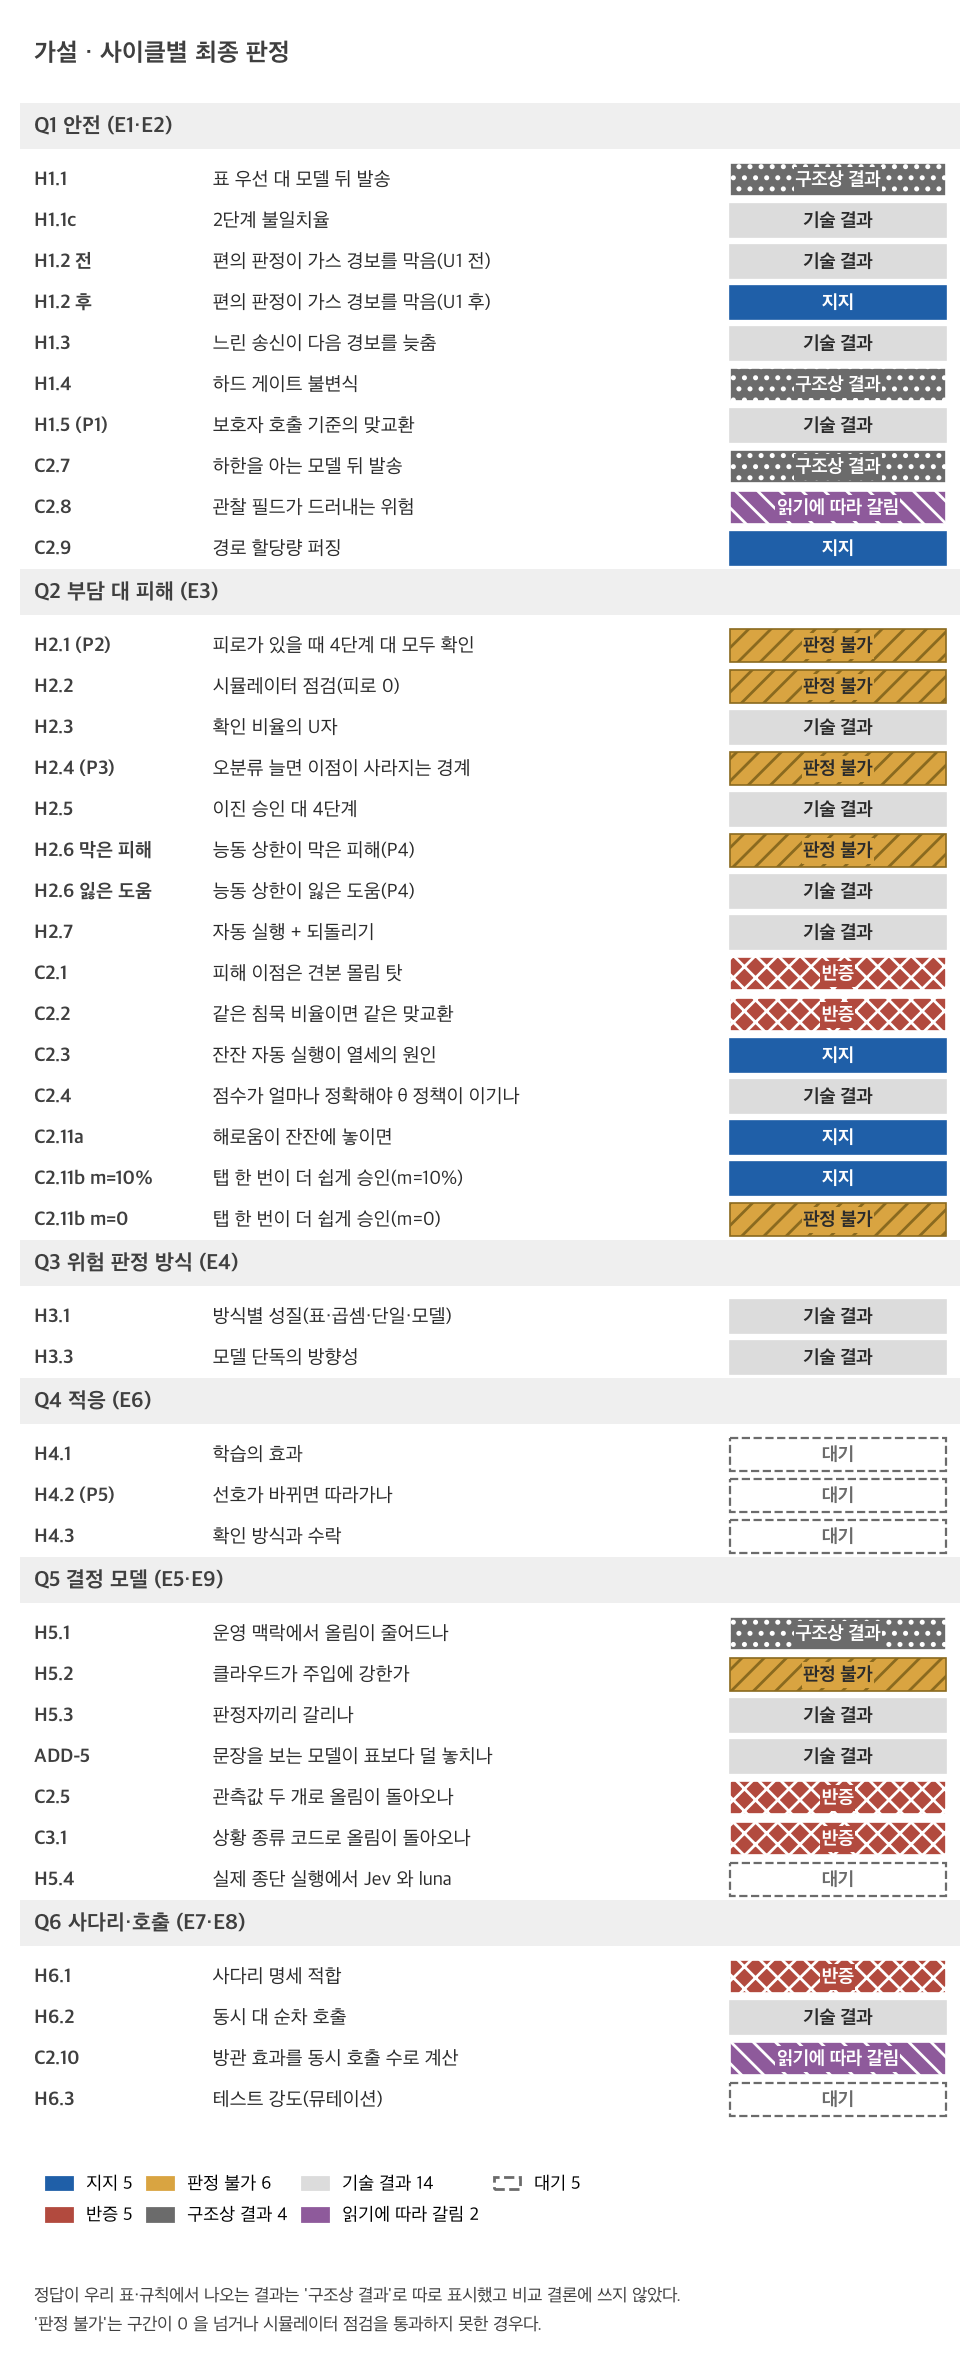
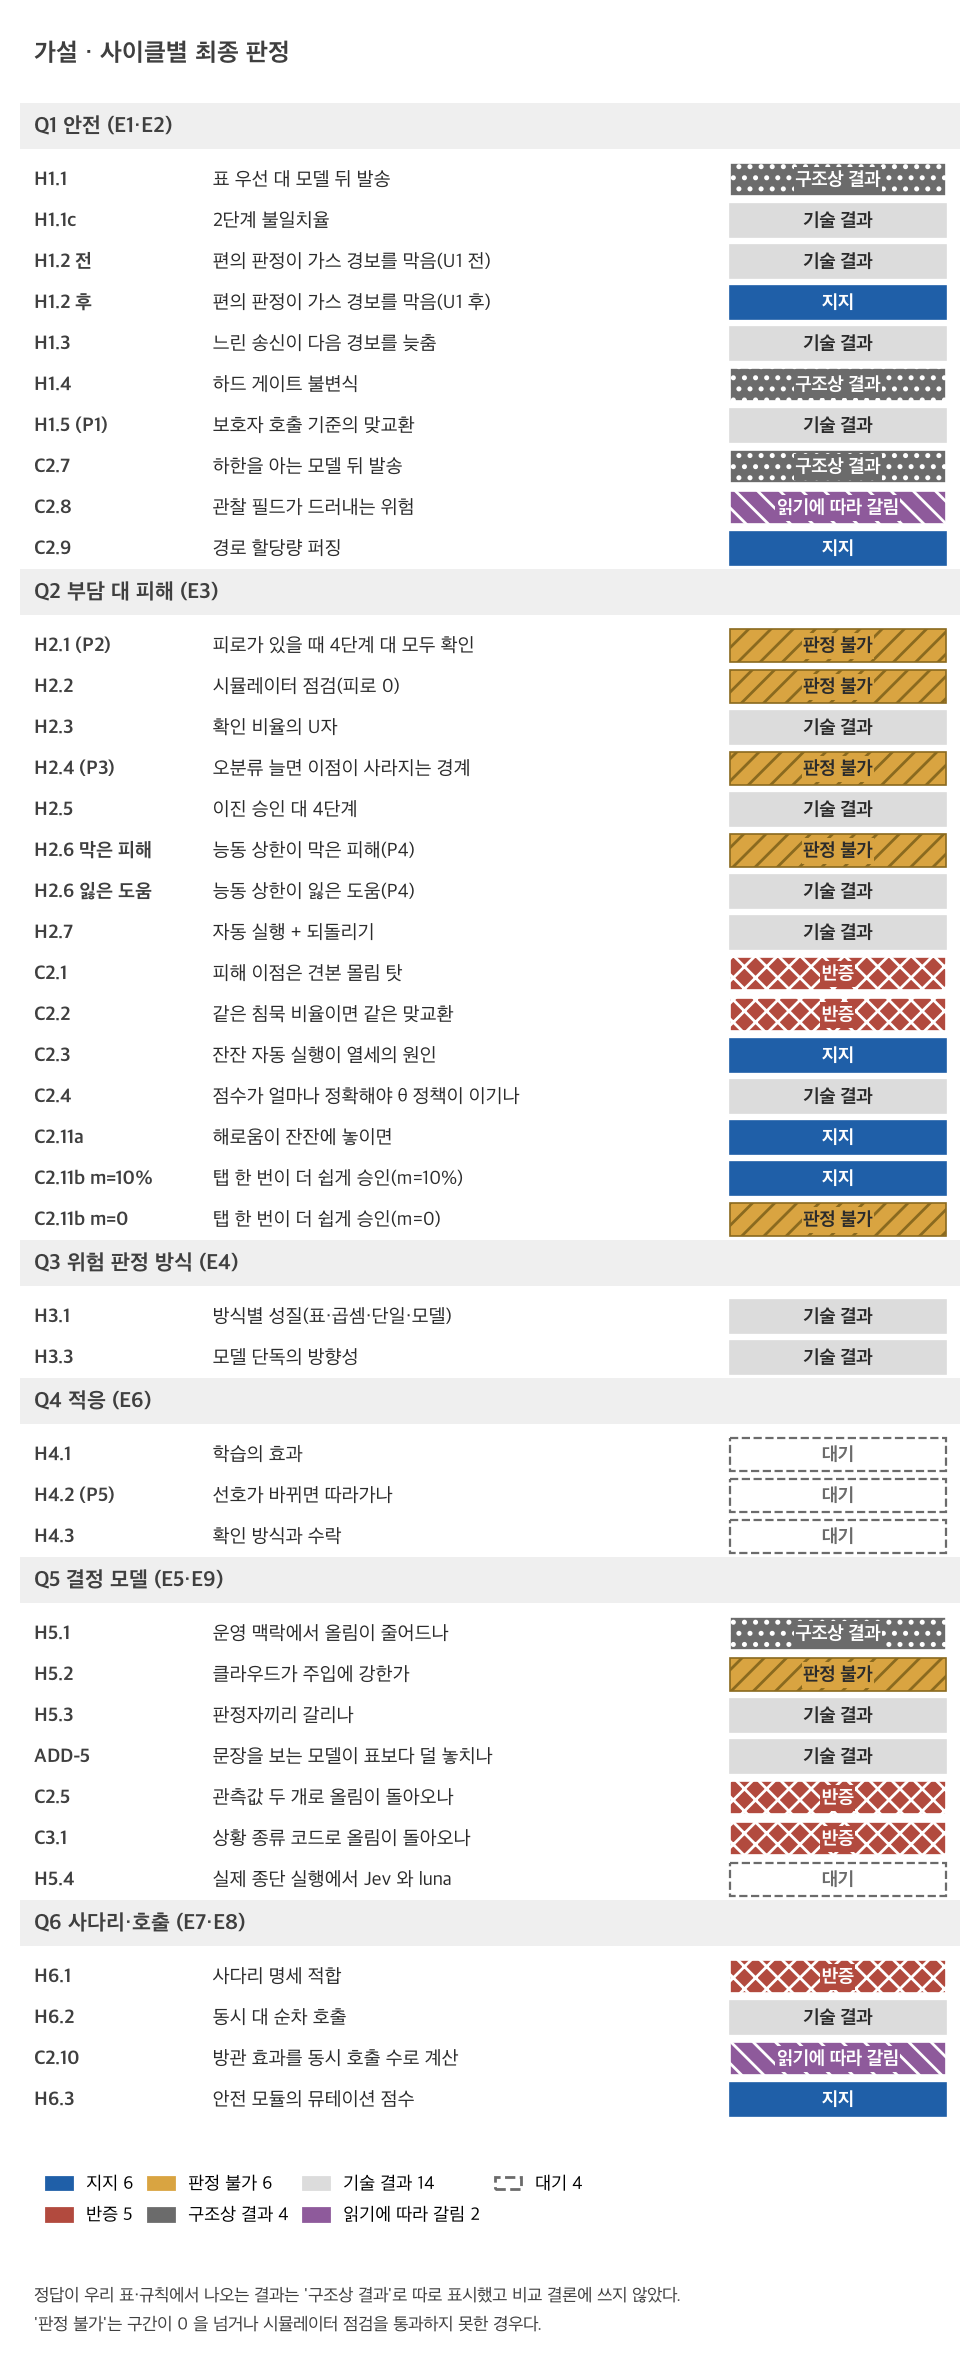
feat(experiments): 자료집 갱신 — E3 동률 보정·E8 뮤테이션(H6.3 지지)·Q6 패널

diff --git a/experiments/kit/figures.py b/experiments/kit/figures.py
@@ -413,10 +413,35 @@ def _panel_e7(ax: Any) -> None:
     ax.legend(loc="upper left", fontsize=6, handlelength=1.6)
 
 
+def _panel_e8(ax: Any) -> None:
+    summary = load_summary("e8_mutation")
+    if summary is None:
+        _pending_panel(ax, "Q6 안전 모듈의 뮤테이션 점수 (E8)", "대기")
+        return
+    rows = []
+    for path, module in summary["modules"].items():
+        rows.append((path.rsplit("/", 1)[-1].removesuffix(".py"), module["score_core"] * 100, module["coverage_pct"]))
+    rows.sort(key=lambda r: r[1])
+    ypos = np.arange(len(rows))
+    for y, (_name, score, cov) in zip(ypos, rows, strict=True):
+        color = LIOT_BETTER if score >= 90 else LIOT_WORSE
+        ax.barh(y, score, color=color, height=0.62)
+        ax.text(103, y, f"{score:.0f}%  (커버리지 {cov:.0f}%)", va="center", fontsize=6.4)
+    ax.axvline(90, color="#3F3F3F", linestyle="--", linewidth=0.8)
+    ax.text(90, -0.95, "90%", fontsize=6.2, color="#3F3F3F", va="top", ha="center")
+    ax.set_yticks(ypos, [r[0] for r in rows])
+    ax.set_xlim(0, 160)
+    ax.set_ylim(-1.0, len(rows) - 0.4)
+    ax.set_xticks([0, 25, 50, 75, 100])
+    ax.set_xlabel("뮤테이션 점수 (%, 핵심 연산자 · 높을수록 테스트가 오류를 잡음)")
+    ax.set_title("Q6 안전 모듈 10개: 커버리지는 높은데 점수는 모듈마다 다르다", loc="left", fontweight="bold")
+    ax.grid(axis="y", visible=False)
+
+
 def make_overview() -> Path:
     _apply_print_style()
-    fig = plt.figure(figsize=(4.7, 7.9))
-    gs = fig.add_gridspec(4, 2, hspace=0.80, wspace=0.52, left=0.12, right=0.985, top=0.965, bottom=0.085)
+    fig = plt.figure(figsize=(4.7, 10.1))
+    gs = fig.add_gridspec(5, 2, hspace=0.82, wspace=0.52, left=0.12, right=0.985, top=0.97, bottom=0.07, height_ratios=[1, 1.05, 1, 1, 1.15])
     _panel_e1(fig.add_subplot(gs[0, 0]))
     _panel_e2(fig.add_subplot(gs[0, 1]))
     _panel_e3(fig, gs[1, :])
@@ -424,6 +449,7 @@ def make_overview() -> Path:
     _panel_e5(fig.add_subplot(gs[2, 1]))
     _panel_e6(fig.add_subplot(gs[3, 0]))
     _panel_e7(fig.add_subplot(gs[3, 1]))
+    _panel_e8(fig.add_subplot(gs[4, :]))
     fig.text(
         0.12,
         0.012,

diff --git a/experiments/kit/build.py b/experiments/kit/build.py
@@ -2,7 +2,7 @@
 
     PYTHONPATH=$PWD /Users/rayul/liot/.venv/bin/python -m experiments.kit.build
 
-Experiments that have not landed yet (no summary.json: e6/e8/e9 today) are tolerated: their
+Experiments that have not landed yet (no summary.json: e6/e9 today; e8 has landed) are tolerated: their
 figure panels and claim blocks carry a visible 'pending' marker. When such a summary appears
 while the kit still says 대기, the build prints NEW-RESULT and exits 1 so nobody forgets to fill
 in claims.yaml / hypotheses.yaml.
@@ -18,7 +18,7 @@ from pathlib import Path
 from experiments.kit import check_numbers, figures, render
 from experiments.kit.check_numbers import EXP_DIR, load_summary
 
-PENDING_EXPERIMENTS = ("e6_personalization", "e8_mutation", "e9_cloud")
+PENDING_EXPERIMENTS = ("e6_personalization", "e9_cloud")
 
 
 def main() -> int:

diff --git a/experiments/kit/derived.py b/experiments/kit/derived.py
@@ -101,7 +101,13 @@ def h15b_auc08_cells(summary: dict[str, Any], mode: str) -> float:
     )
 
 
+def e8_modules_below(summary: dict[str, Any], block: str, key: str, threshold: float = 0.9) -> float:
+    """Number of E8 modules whose ``modules.<m>.<block>.<key>`` score is below *threshold*."""
+    return float(sum(1 for module in summary["modules"].values() if module[block][key] < threshold))
+
+
 FUNCS: dict[str, Callable[..., float]] = {
+    "e8_modules_below": e8_modules_below,
     "h15b_auc08_over2_share": h15b_auc08_over2_share,
     "h15b_auc08_cells": h15b_auc08_cells,
     "h15_cstar": h15_cstar,
